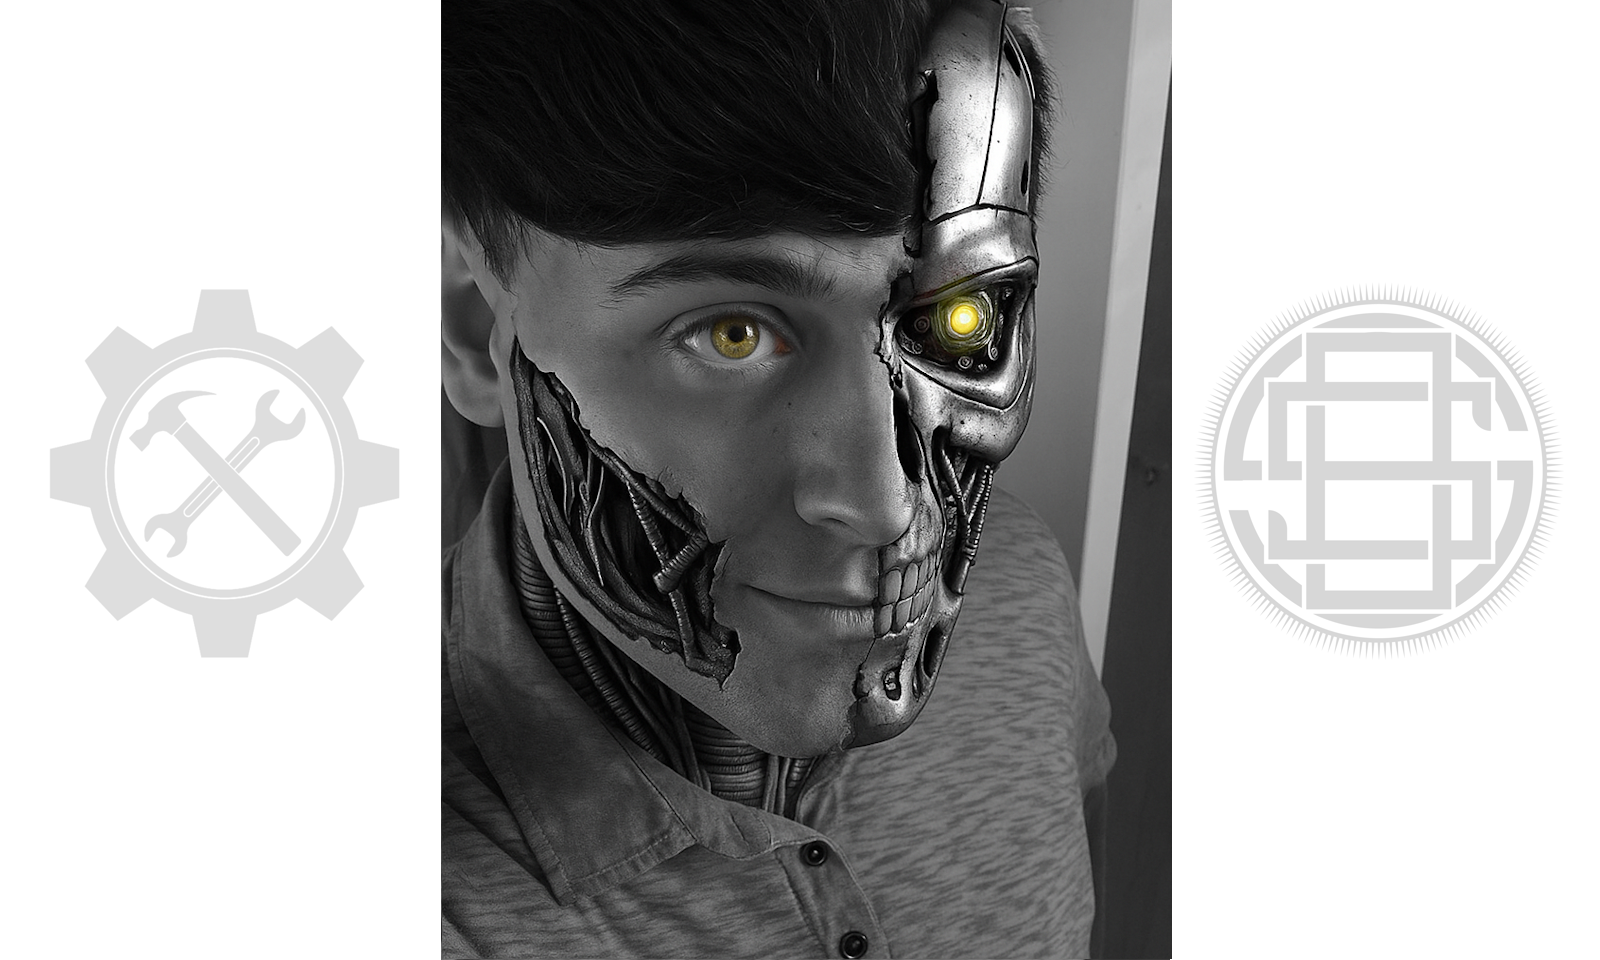
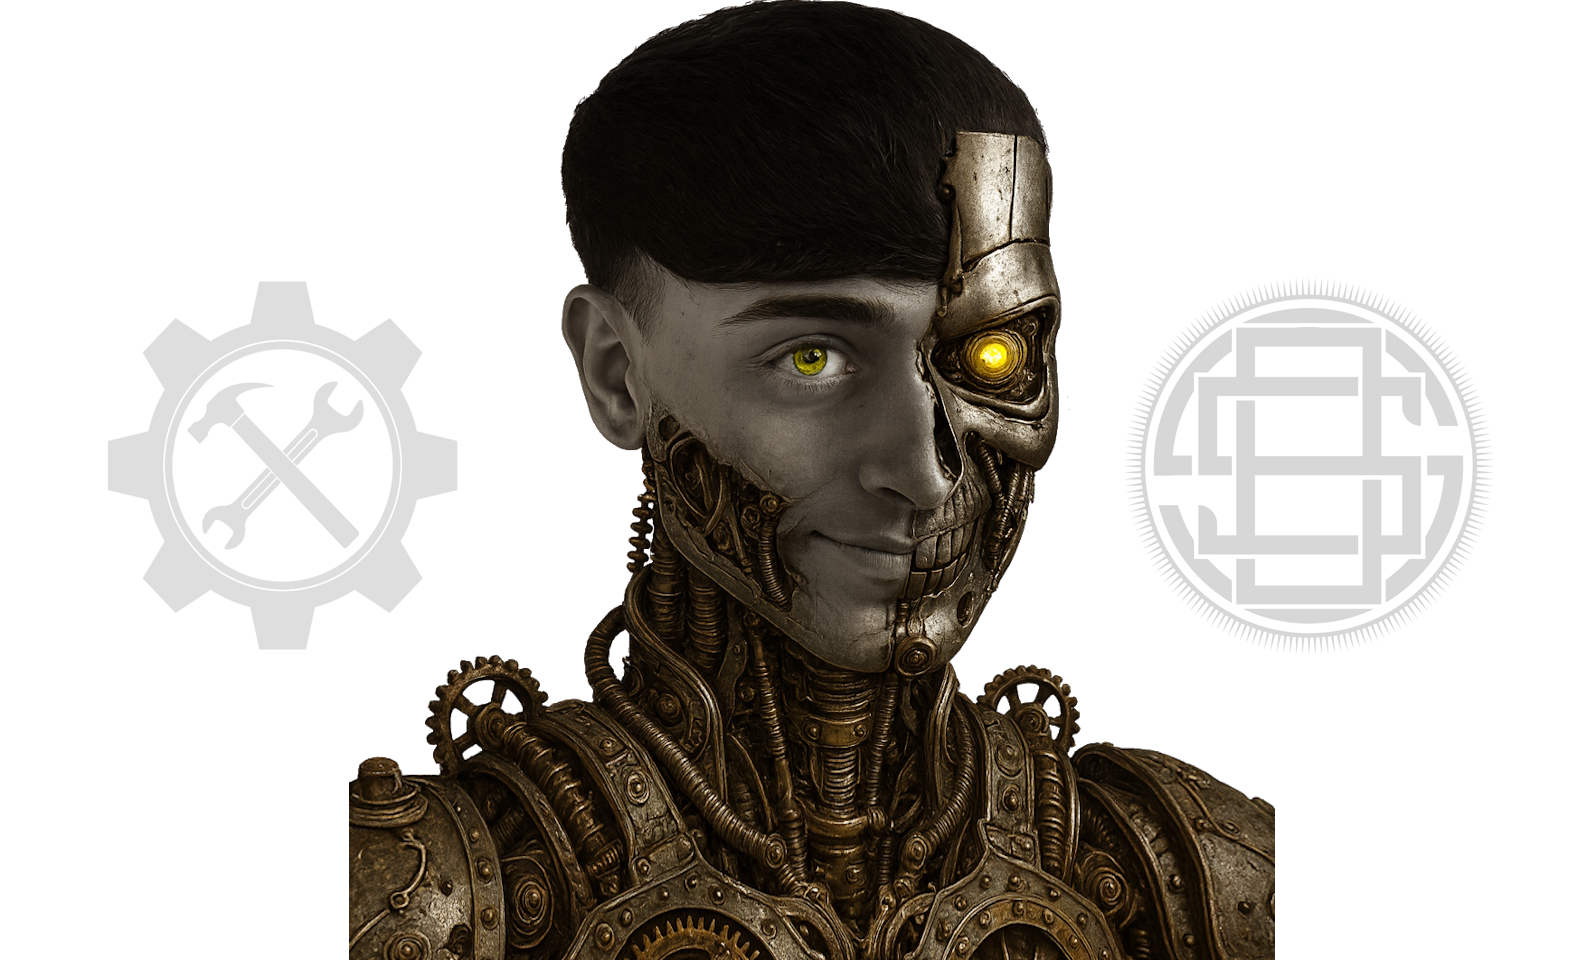
added alternative profile image

diff --git a/index.js b/index.js
@@ -32,3 +32,11 @@ document.addEventListener("keypress", function(event)
 {
     if (event.code == "Space" || event.keycode == 32) {toggleAudio(audio);}
 });
+
+// select profile image
+var image = document.getElementsByClassName("image")
+if ([1, 2].includes(randomNumber))
+{
+    image[0].src = "./assets/images/profile_2.png";
+    image[0].alt = "artistic image of Orlando created using ChatGPT";
+}

diff --git a/index.html b/index.html
@@ -21,7 +21,7 @@
  <h1>Orlando Sirbas</h1>
  <h2>Key Contributor in IT and Cyber Security</h2>
  <div>
-   <img class="image" src="./assets/images/profile_1.png" height="320" alt="professional photo"/>
+   <img class="image" src="./assets/images/profile_1.png" height="320" alt="professional photo of Orlando"/>
  </div>
  <hr>
  <h3>Summary</h3>
